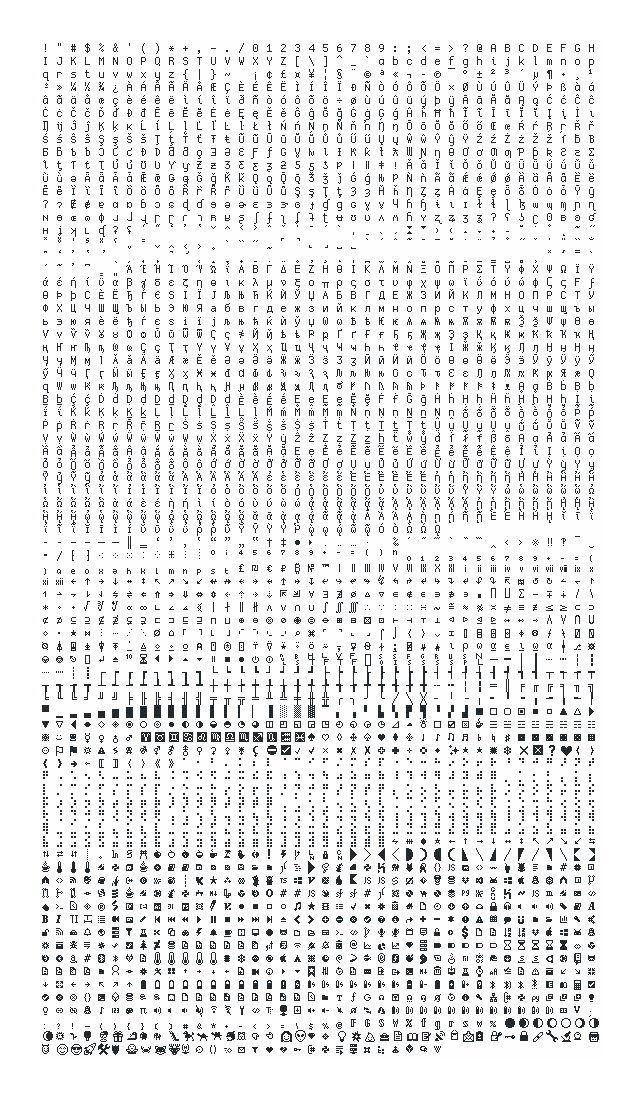
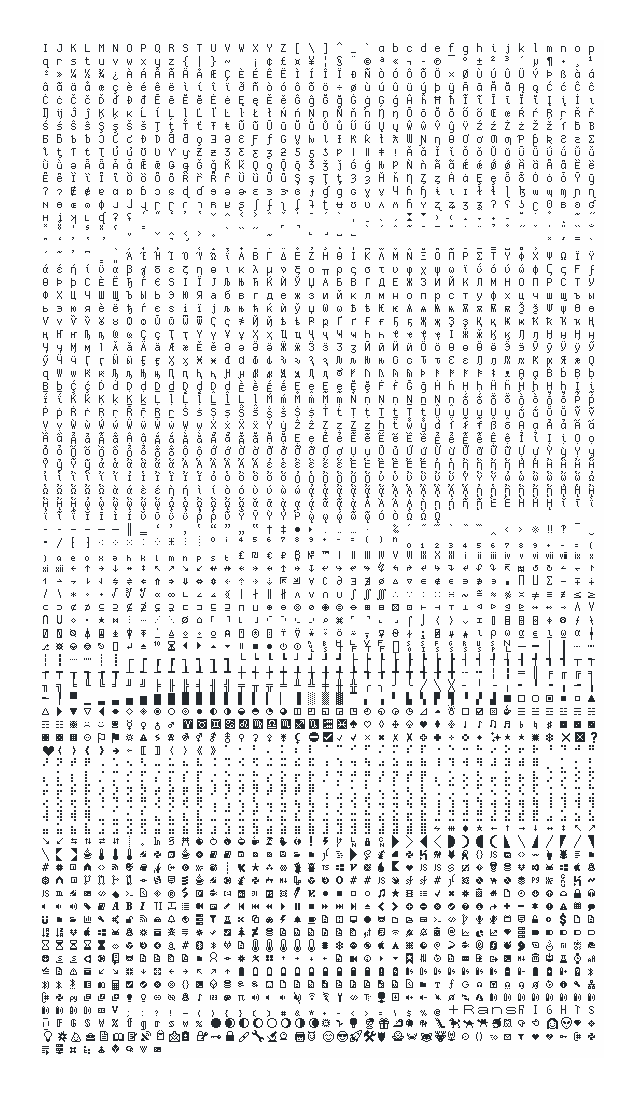
v.1.23.2

diff --git a/cozette_builder/imagegen.py b/cozette_builder/imagegen.py
@@ -156,7 +156,7 @@ def make_charmap(sfd: Path) -> List[str]:
             if (0x300 <= cp < 0x370) and cp in codepoints:
                 line += " "
             line += ch
-            if not charwidth(ch) == "W":
+            if charwidth(ch) not in "FW":
                 line += " "
         if line := line.rstrip():
             text.append(f"U+{i//16:04X}_│{line}")
@@ -184,7 +184,7 @@ def make_charlist_text(sfd: Path) -> str:
                 text += f" {chr(c)} "
             else:
                 ch = chr(c)
-                text += ch if charwidth(ch) == "W" else f"{ch} "
+                text += ch if charwidth(ch) in "FW" else f"{ch} "
     return text
 
 

diff --git a/CHANGELOG.md b/CHANGELOG.md
@@ -5,6 +5,30 @@ All notable changes to this project will be documented in this file.
 The format is based on [Keep a Changelog], and this project adheres to
 [Semantic Versioning].
 
+## [1.23.2]
+
+### Added
+
+- ∁ (U+2201 COMPLEMENT)
+- ∂ (U+2202 PARTIAL DIFFERENTIAL)
+- ☹ (U+2639 WHITE FROWNING FACE)
+-  (U+E63A)
+-  (U+E736)
+-  (U+E7B0)
+-  (U+F0F6)
+- ＋ (U+FF0B FULLWIDTH PLUS SIGN)
+- Ｒ (U+FF32 FULLWIDTH LATIN CAPITAL LETTER R)
+- ａ (U+FF41 FULLWIDTH LATIN SMALL LETTER A)
+- ｎ (U+FF4E FULLWIDTH LATIN SMALL LETTER N)
+- ｓ (U+FF53 FULLWIDTH LATIN SMALL LETTER S)
+- 𐅯 (U+1016F GREEK ACROPHONIC CARYSTIAN FIVE HUNDRED)
+- 𐊦 (U+102A6 CARIAN LETTER LD)
+- 𐋉 (U+102C9 CARIAN LETTER RR)
+- 𐋏 (U+102CF CARIAN LETTER E2)
+- 𐌕 (U+10315 OLD ITALIC LETTER TE)
+- 𐍃 (U+10343 GOTHIC LETTER SAUIL)
+-  (U+F0A0A)
+
 ## [1.23.1]
 
 ### Changed
@@ -2434,7 +2458,8 @@ Still broken on Windows.
 
 [keep a changelog]: https://keepachangelog.com/en/1.0.0/
 [semantic versioning]: https://semver.org/spec/v2.0.0.html
-[unreleased]: https://github.com/slavfox/Cozette/compare/v.1.23.1...HEAD
+[unreleased]: https://github.com/slavfox/Cozette/compare/v.1.23.2...HEAD
+[1.23.1]: https://github.com/slavfox/Cozette/compare/v.1.23.1...v.1.23.2
 [1.23.1]: https://github.com/slavfox/Cozette/compare/v.1.23.0...v.1.23.1
 [1.23.0]: https://github.com/slavfox/Cozette/compare/v.1.22.2...v.1.23.0
 [1.22.2]: https://github.com/slavfox/Cozette/compare/v.1.22.1...v.1.22.2
